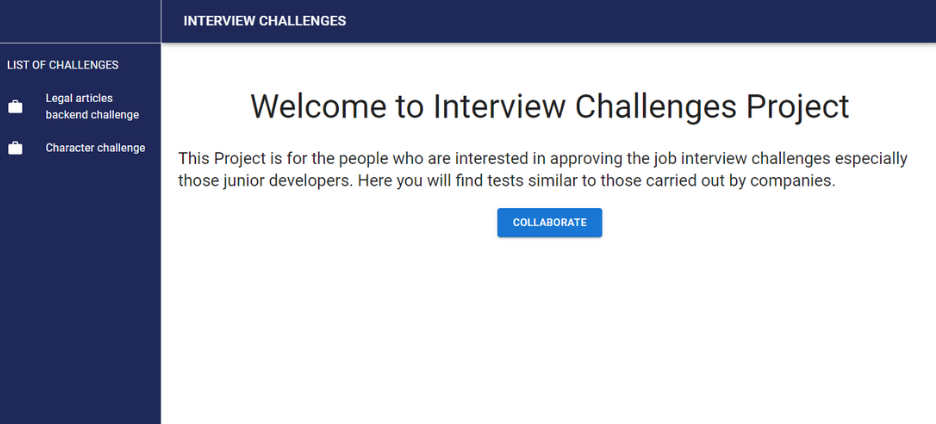
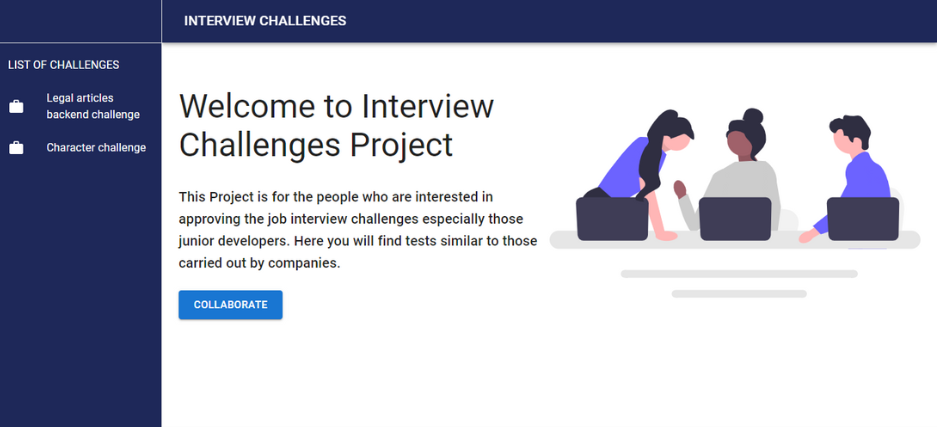
add svg home

diff --git a/src/components/Presentation.tsx b/src/components/Presentation.tsx
@@ -1,29 +1,32 @@
 import Box from "@mui/material/Box";
 import Typography from "@mui/material/Typography";
 import Button from "@mui/material/Button";
+import people from '../assets/people.svg';
+import './style.css';
 
 const Presentation = () => {
   return (
     <Box
       sx={{ flexGrow: 1 }}
       display="flex"
-      flexDirection="column"
-      justifyContent="center"
-      alignItems="center"
     >
+      <div>
       <Typography variant="h3" component="h2" paddingTop={5} paddingBottom={4}>
         Welcome to Interview Challenges Project
       </Typography>
-      <Typography variant="h5" component="h2" paddingBottom={3}>
+      <Typography variant="h6" component="h2" paddingBottom={3} >
         This Project is for the people who are interested in approving the job
         interview challenges especially those junior developers. Here you will
         find tests similar to those carried out by companies.
       </Typography>
       <a target="_blank" href={"https://github.com/ezequielbugnon/interview-challenges"} style={{textDecoration: "none"}}>
-        <Button variant="contained" size="large">
+        <Button variant="contained" size="large" style={{marginBottom: "40px"}}>
           Collaborate
         </Button>
       </a>
+      </div>
+    
+      <img src={people} alt="people" className="people-svg"/>
     </Box>
   );
 };

diff --git a/src/components/style.css b/src/components/style.css
@@ -1,0 +1,10 @@
+.people-svg{
+    width: 50%;
+}
+
+
+@media(max-width: 850px) {
+   .people-svg{
+        display: none;
+   }
+}
